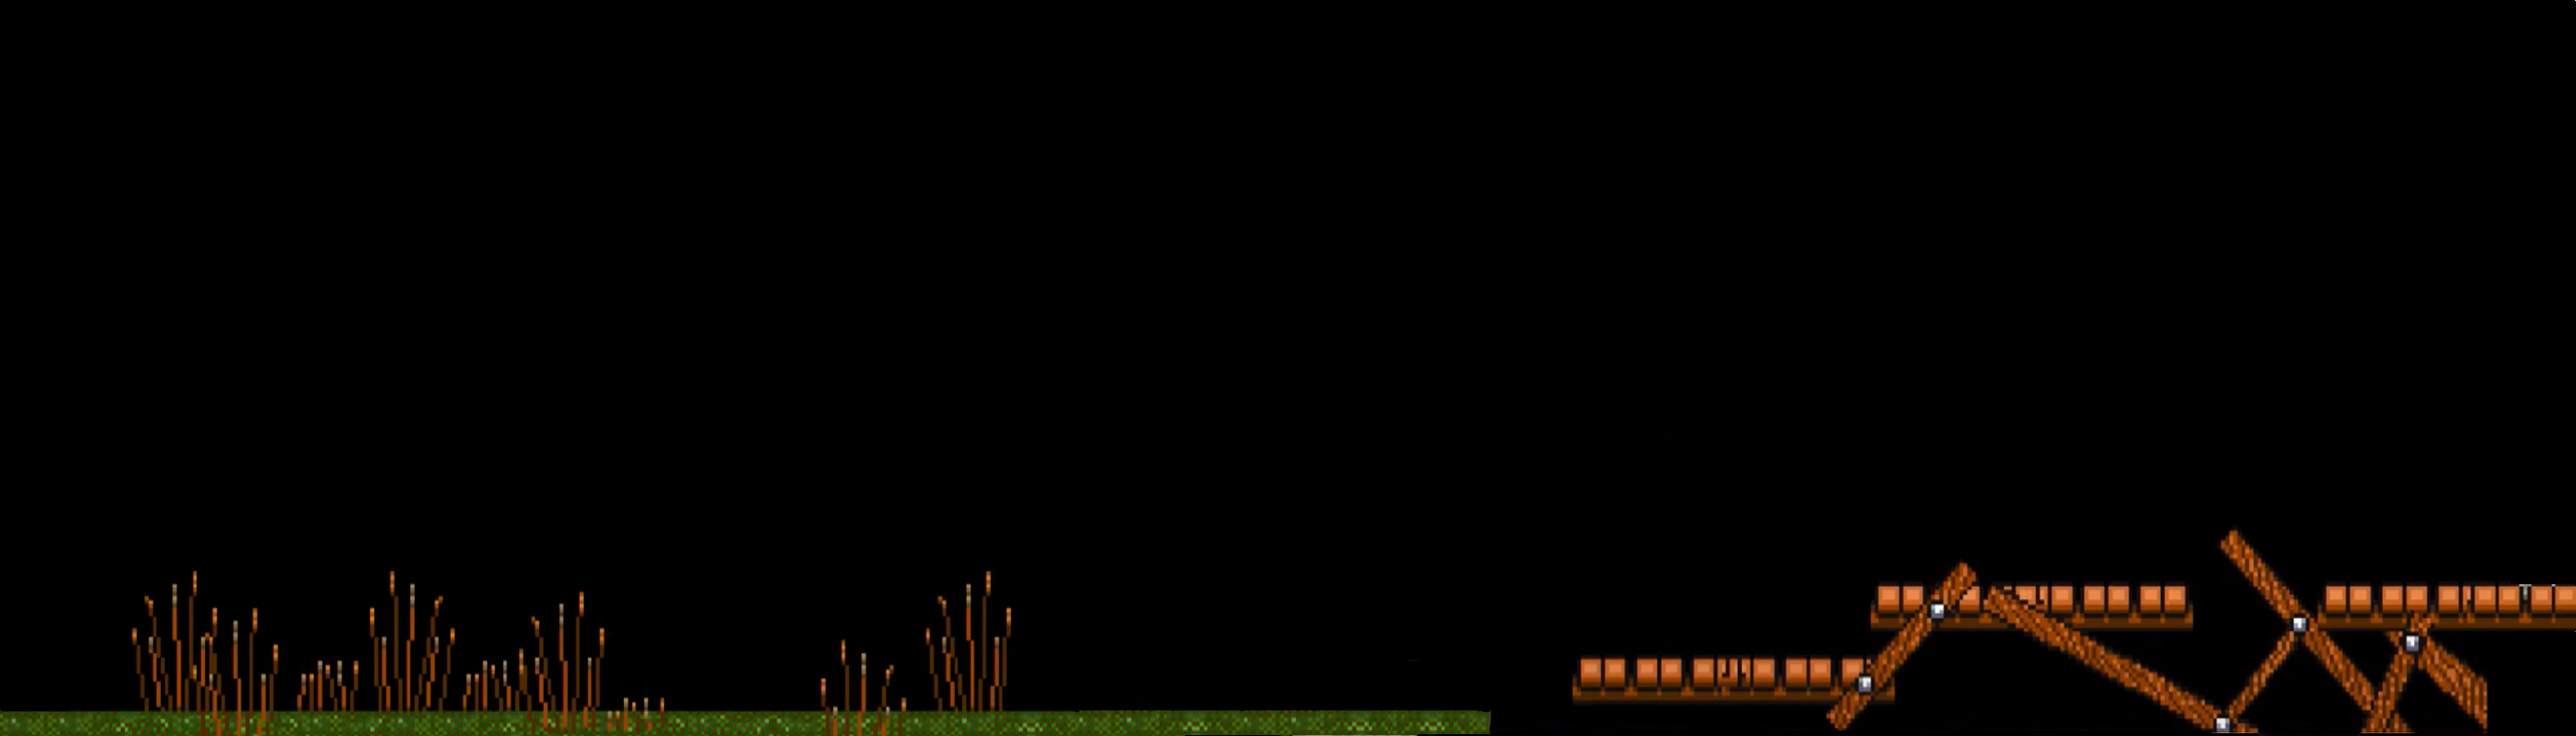
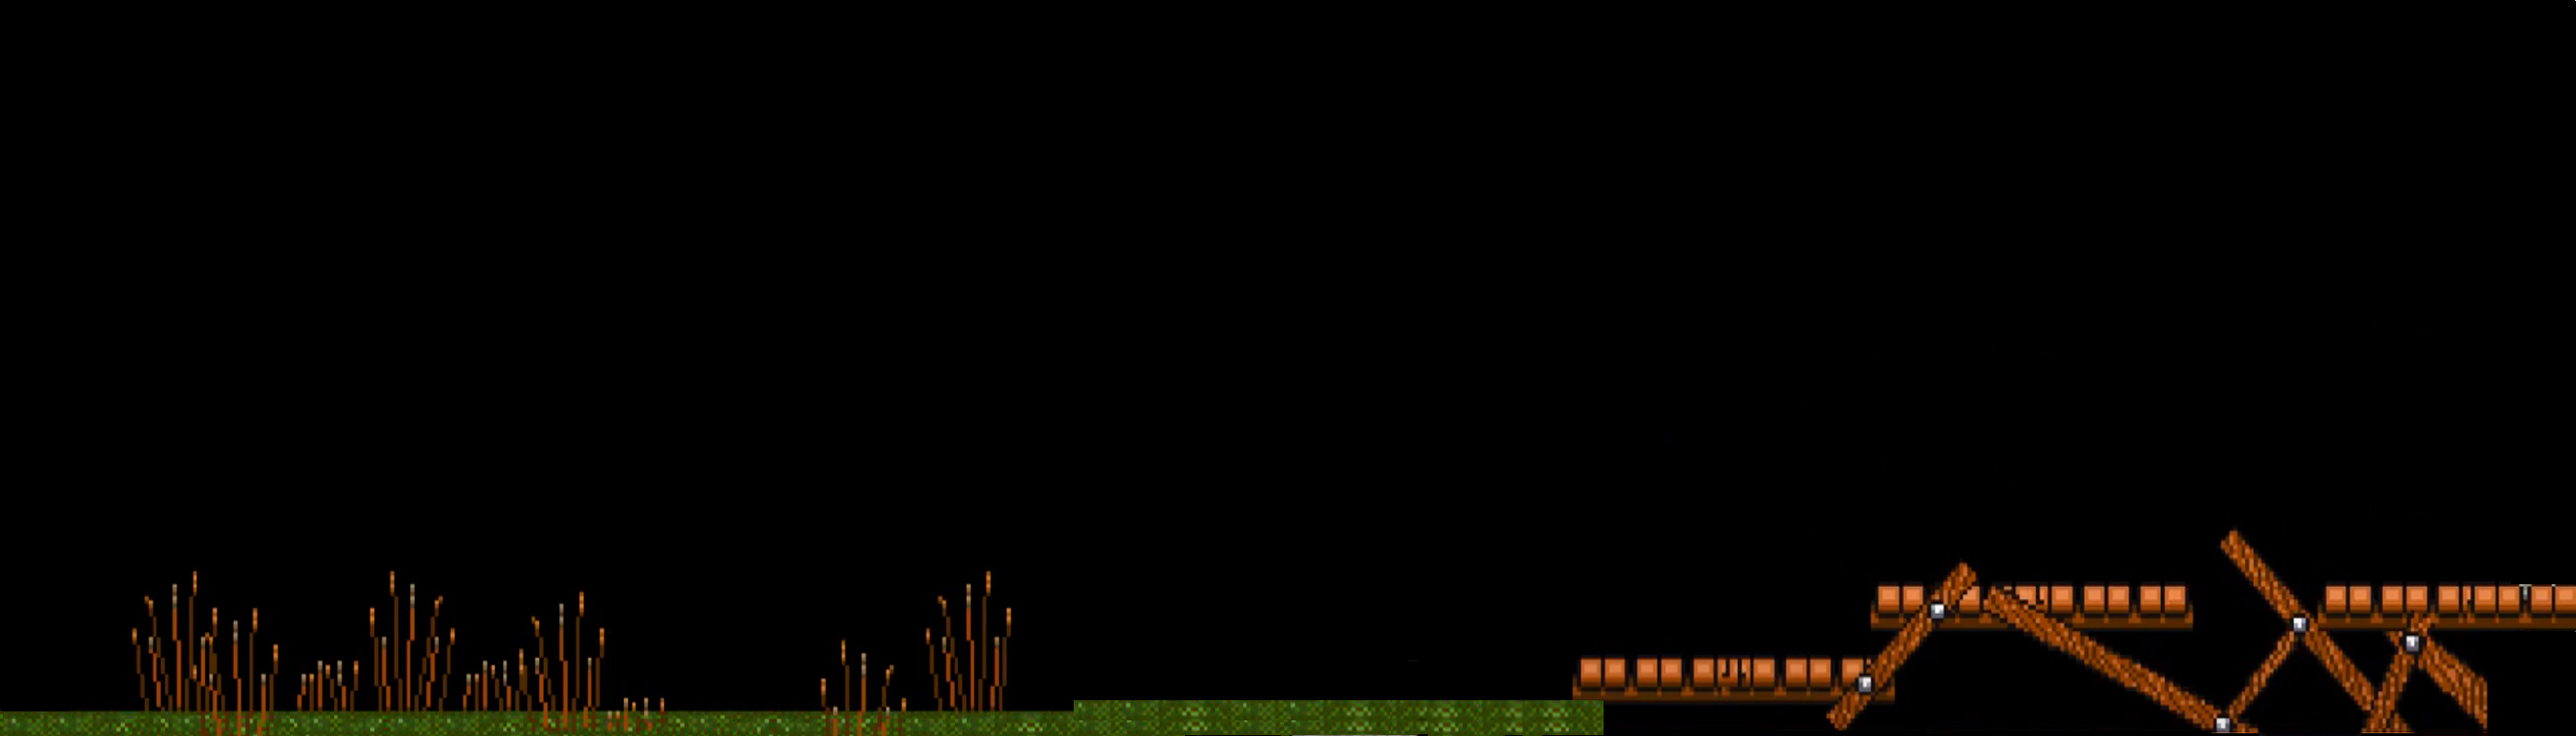
checkpoint for parquor

Changed region(s): [[0.4039, 0.9375, 0.6214, 1.0]]

diff --git a/animation.js b/animation.js
@@ -48,6 +48,17 @@ function sleep(ms) {
     return new Promise(resolve => setTimeout(resolve, ms));
 }
 
+function fall(sprite) {
+    var bottom = sprite[SPRITE].css('bottom');
+    bottom = bottom.substring(0, bottom.length - 2);
+    console.log('==> bottome is ' + bottom + ' pixels away');
+    var distance = parseInt(bottom) + (sprite[SPRITE].height() / 2);
+    console.log('==> distance is ' + distance);
+    console.log('==> height:' + sprite[SPRITE].height() + ' time:' + (distance/sprite[PIXELS_PER_SECOND] * 1000));
+    //sprite[SPRITE].animate({bottom: -1*sprite[SPRITE].height() / 2}, distance / sprite[PIXELS_PER_SECOND] * 1000, 'linear');
+    sprite[SPRITE].animate({bottom: -1*200}, distance / FALLING_PIXELS_PER_SECOND * 1000,  'linear');
+}
+
 function moveRight(sprite) {
     var distance = windowWidth - sprite[SPRITE].offset().left - (sprite[SPRITE].width() / 2);
     sprite[SPRITE].animate({left: windowWidth - (sprite[SPRITE].width() / 2) + 'px'}, distance / sprite[CURRENT_PIXELS_PER_SECOND] * 1000, 'linear');
@@ -166,34 +177,49 @@ async function animateSprite(sprite, opponents, requestedAction, requestedDirect
                 for (var i = 0; i < obstacles[sprite[DIRECTION]].length; i++) {
                     var obstacle = obstacles[sprite[DIRECTION]][i];
                     var left = sprite[SPRITE].offset().left;
+                    console.log("==> left:" + left);
                     var isPassedBoundry = false;
-                    console.log('considering:' + obstacle[LEFT] + ' distance: ' + pixelsFromObsticle);
                     var pixelsFromObsticle = Math.abs(obstacle[LEFT] - left);
+
                     if (pixelsFromObsticle > 50) {
                         continue;
                     }
+                    console.log('considering:' + obstacle[LEFT] + ' distance: ' + pixelsFromObsticle);
+
                     if (sprite[DIRECTION] === RIGHT) {
                         isPassedBoundry = left >= obstacle[LEFT];
                     } else {
                         isPassedBoundry = left <= obstacle[LEFT];
                     }
-                    if (isPassedBoundry && sprite[SPRITE].css('bottom') !== obstacle[HEIGHT] + 'px') {
+                    if (isPassedBoundry /*&& sprite[SPRITE].css('bottom') !== obstacle[HEIGHT] + 'px'*/) {
+                        console.log('===> passed boundry');
                         var bottom = sprite[SPRITE].css('bottom');
                         bottom = bottom.substring(0, bottom.length - 2);
-                        console.log('obstacle: ' + obstacle[LEFT] + ' obstacle height:' + obstacle[HEIGHT] + ' bottom ' + bottom);
-                        var isDownhill = obstacle[HEIGHT] <= bottom;
-                        console.log('isDownhill:' + isDownhill);
-                        console.log("==> jump actions: %o", sprite[POSITIONS][JUMP]);
-                        var jumpPosition = sprite[POSITIONS][JUMP][BARBARIAN_SPRITE_NAME];
-                        if (isDownhill || obstacle[JUMP_RANGE] && (jumpPosition > obstacle[JUMP_RANGE][0] && jumpPosition < obstacle[JUMP_RANGE][1])) {
+                        //console.log('obstacle: ' + obstacle[LEFT] + ' obstacle height:' + obstacle[HEIGHT] + ' bottom ' + bottom);
+                        var isDownhill = obstacle[HEIGHT] <= bottom && obstacle[OBSTACLE_TYPE] !== PIT;
+                        console.log("==> obstacle %o", obstacle)
+                        console.log('==> obstacleType: ' + obstacle[OBSTACLE_TYPE] + ' isDownhill' + isDownhill);
+                        //console.log('isDownhill:' + isDownhill);
+                        //console.log("==> jump actions: %o", sprite[POSITIONS][JUMP]);
+                        var actionPosition = sprite[POSITIONS][JUMP][BARBARIAN_SPRITE_NAME];
+
+                        var jumpPosition = actionPosition ? actionPosition[LEFT] : undefined;
+                        var jumpedAgo = actionPosition ? new Date().getTime() - actionPosition[TIMESTAMP] : 100000;
+                        if (isDownhill || (obstacle[JUMP_RANGE] && (jumpedAgo < 1000 && jumpPosition > obstacle[JUMP_RANGE][0] && jumpPosition < obstacle[JUMP_RANGE][1]))) {
+
                             sprite[SPRITE].css('bottom', obstacle[HEIGHT] + 'px');
                         } else {
-                            console.log('stopping');
-                            actionHelper(sprite, opponents, STOP, 1);
+                            //console.log('stopping');
+                            if (obstacle[FAIL_ACTION] === FALL) {
+                                console.log('==> FALL!');
+                                animateFall(sprite);
+                            } else {
+                                actionHelper(sprite, opponents, obstacle[FAIL_ACTION], 1);
+                            }
                             break main;
                         }
                     }
-                    console.log('left:' + left + ' obstacle left:' + obstacle['left']);
+                    //console.log('left:' + left + ' obstacle left:' + obstacle['left']);
 
                 }
             }
@@ -263,6 +289,20 @@ function death(sprite) {
     setTimeout(function () {
         animateDeath(sprite)
     }, sprite[DEATH][DELAY] * (1 / sprite[FPS]));
+}
+
+async function animateFall(sprite) {
+    sprite[SPRITE].stop();
+    sprite[STATUS] = DEAD;
+
+    fall(sprite);
+    var direction = sprite[DIRECTION];
+    var frames = sprite[FRAMES][FALL][direction][FRAMES];
+    for(var i = 0; i < frames.length; i++) {
+        renderSpriteFrame(sprite, FALL, frames[i])
+        await sleep(1000 / sprite[FPS]);
+    }
+    console.log("==> fall frames %o", frames);
 }
 
 async function animateDeath(sprite) {

diff --git a/sprites.js b/sprites.js
@@ -1,4 +1,5 @@
 var SPRITE_FPS = 5;
+var FALLING_PIXELS_PER_SECOND = 300;
 var BOG_MONSTER_SPRITE_FPS = 5;
 var BOG_MONSTER_PIXELS_PER_SECOND = 150;
 var STOP_RIGHT_POSITION = 0;
@@ -59,10 +60,10 @@ BARBARIAN_SPRITE = {
                 HEIGHT_OFFSET : 0}},
         FALL : {
             LEFT: {
-                FRAMES : [0, 1, 2, 3],
+                FRAMES : [3, 2, 1, 0],
                 HEIGHT_OFFSET : 15},
             RIGHT: {
-                FRAMES : [3, 2, 1, 0],
+                FRAMES : [0, 1, 2, 3],
                 HEIGHT_OFFSET: 14}}
     },
     POSITIONS : {
@@ -157,12 +158,13 @@ MONSTER_SPRITE = {
 SCREENS = {
     1 :  {
         RIGHT : [
-            {LEFT: 100, HEIGHT: 82, JUMP_RANGE : [-20, 10]},
-            {LEFT: 400, HEIGHT: 164, JUMP_RANGE : [200, 400]}
+            {LEFT: 100, OBSTACLE_TYPE : ELEVATION, HEIGHT: 82, FAIL_ACTION : STOP, JUMP_RANGE : [-20, 10]},
+            {LEFT: 400, OBSTACLE_TYPE : ELEVATION, HEIGHT: 164, FAIL_ACTION : STOP, JUMP_RANGE : [200, 400]},
+            {LEFT: 800, OBSTACLE_TYPE : PIT, HEIGHT: 164, FAIL_ACTION : FALL, JUMP_RANGE : [750, 780]}
         ],
         LEFT : [
-            {LEFT: 100, HEIGHT: 12},
-            {LEFT: 400, HEIGHT: 82}
+            {LEFT: 100, OBSTACLE_TYPE : ELEVATION, HEIGHT: 12},
+            {LEFT: 400, OBSTACLE_TYPE : ELEVATION, HEIGHT: 82}
         ]
     }
 };
@@ -189,7 +191,10 @@ function getPositionsAtAction(sprites) {
     var positionsAtAttack = {};
     for (var i = 0; i < sprites.length; i++) {
         var sprite = sprites[i];
-        positionsAtAttack[sprite[NAME]] = sprite[SPRITE].offset().left;
+        positionsAtAttack[sprite[NAME]] = {
+            LEFT : sprite[SPRITE].offset().left,
+            DIRECTION : sprite[DIRECTION],
+            TIMESTAMP : new Date().getTime()};
     }
     return positionsAtAttack;
 }

diff --git a/fighting.js b/fighting.js
@@ -1,7 +1,7 @@
 var HEADON = 'HEADON';
 
 function isSuccessfulAttack(sprite, opponent) {
-    var distance = sprite[POSITIONS][ATTACK][opponent[NAME]] - sprite[POSITIONS][ATTACK][sprite[NAME]];
+    var distance = sprite[POSITIONS][ATTACK][opponent[NAME]][LEFT] - sprite[POSITIONS][ATTACK][sprite[NAME]][LEFT];
 
     var thresholds = sprite[ATTACK_THRESHOLDS];
     var successful = false;
@@ -39,7 +39,7 @@ function hasAttacked(sprite) {
 function hasJumpEvaded(sprite, opponent) {
     var isJumpEvaided = false;
     if (opponent[POSITIONS][JUMP] && Object.keys(opponent[POSITIONS][JUMP]).length > 0) {
-        var jumpDiff = Math.abs(opponent[POSITIONS][JUMP][opponent[NAME]] - opponent[POSITIONS][JUMP][sprite[NAME]]);
+        var jumpDiff = Math.abs(opponent[POSITIONS][JUMP][opponent[NAME]][LEFT] - opponent[POSITIONS][JUMP][sprite[NAME]][LEFT]);
         if (opponent[ACTION] === JUMP && jumpDiff < 400 && jumpDiff > 240) {
             isJumpEvaided = true;
         }

diff --git a/barbarian.css b/barbarian.css
@@ -25,23 +25,25 @@
 }
 
 .marker_left {
+    display: block;
     opacity: 50%;
     height: 400px;
     width: 400px;
     background-image: url(./sprites/sprite.png);
     position: absolute;
-    bottom: 12px;
-    left: -20px;
+    bottom:164px;
+    left: 750px;
 }
 
 .marker_right {
+    display: block;
     opacity: 50%;
     height: 400px;
     width: 400px;
     background-image: url(./sprites/sprite.png);
     position: absolute;
-    bottom: 12px;
-    left: 10px;
+    bottom: 164px;
+    left: 780px;
 }
 
 .backdrop {

diff --git a/constants.js b/constants.js
@@ -3,7 +3,12 @@ var SCREEN_HEIGHT = 800;
 var SCREEN_WIDTH = 1400;
 
 // labels
+var OBSTACLE_TYPE = 'OBSTACLE_TYPE';
+var PIT = 'PIT';
+var ELEVATION = 'ELEVATION';
+var FAIL_ACTION = 'FAIL_ACTION';
 var JUMP_RANGE = 'JUMP_RANGE';
+var TIMESTAMP = 'TIMESTAMP';
 var STEP = 'STEP';
 var FALL = 'FALL';
 var HEIGHT = 'HEIGHT';
